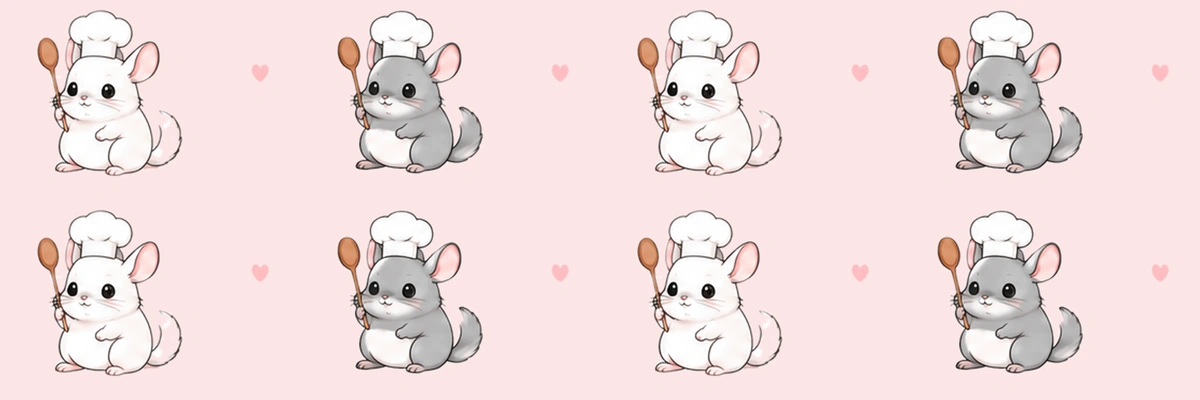
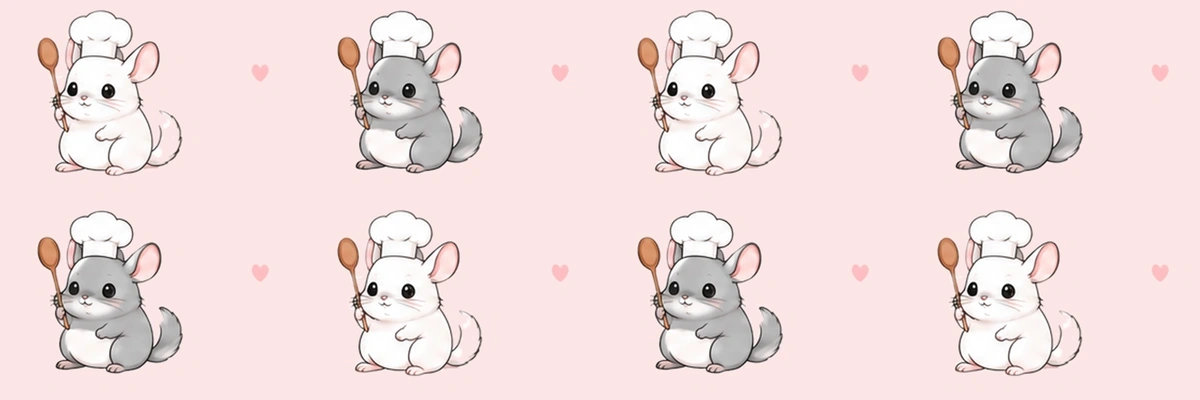
Inverte i colori della seconda riga di cincillà

diff --git a/index.html b/index.html
@@ -7,7 +7,7 @@
 <style>
 :root{--bg:#fce6e7;--paper:#fffdfb;--ink:#514b49;--muted:#8b817c;--line:#ead8d9;--accent:#c98f91;--accent-dark:#a76f72;--tag:#f4e6e3;--shadow:0 8px 28px rgba(92,75,68,.09)}
 *{box-sizing:border-box}html,body{margin:0;min-height:100%}body{color:var(--ink);font-family:Georgia,"Times New Roman",serif;background:var(--bg);overflow-x:hidden}
-.chinchilla-wall{position:fixed;inset:0;z-index:-1;pointer-events:none;background-color:var(--bg);background-repeat:repeat;background-position:center top;background-size:1200px 400px;background-image:url("sfondo_cincilla.webp?v=6")}
+.chinchilla-wall{position:fixed;inset:0;z-index:-1;pointer-events:none;background-color:var(--bg);background-repeat:repeat;background-position:center top;background-size:1200px 400px;background-image:url("sfondo_cincilla.webp?v=7")}
 header{max-width:1200px;margin:0 auto;padding:30px 28px 16px}.brand-row{display:flex;align-items:center;justify-content:space-between;gap:20px}.logo{margin:0;font-family:"Courier New",monospace;font-size:clamp(30px,4vw,52px);letter-spacing:5px;font-weight:700;color:#8d625c}.subtitle{color:var(--muted);margin:4px 0 0;font-size:15px}.add-btn{border:0;background:var(--accent);color:white;padding:12px 18px;border-radius:12px;cursor:pointer;font:600 15px Georgia,serif;box-shadow:var(--shadow)}.add-btn:hover{background:var(--accent-dark)}
 .filters{display:flex;flex-wrap:wrap;gap:8px;margin-top:20px}.filter{border:1px solid #dfcec8;background:rgba(255,253,251,.88);color:var(--ink);padding:8px 14px;border-radius:9px;cursor:pointer;font:14px Georgia,serif}.filter.active,.filter:hover{background:var(--tag);border-color:#cba9a1}
 main{max-width:1200px;margin:0 auto;padding:10px 28px 60px}.toolbar{display:flex;justify-content:space-between;align-items:center;gap:15px;margin:15px 0 20px}.count{font-size:14px;color:var(--muted)}.search{width:min(300px,100%);padding:10px 13px;border:1px solid var(--line);border-radius:10px;background:rgba(255,253,251,.94);outline:none}.grid{display:grid;grid-template-columns:repeat(auto-fill,minmax(250px,1fr));gap:18px}.card{background:rgba(255,253,251,.96);border:1px solid var(--line);border-radius:16px;padding:20px;box-shadow:var(--shadow);min-height:190px;display:flex;flex-direction:column}.card h3{margin:0 0 8px;font-size:22px}.card .category{display:inline-block;align-self:flex-start;background:var(--tag);color:#86635d;padding:5px 9px;border-radius:7px;font-size:12px;margin-bottom:12px}.card p{white-space:pre-line;line-height:1.5;margin:0;color:#665e5a}.card-actions{margin-top:auto;padding-top:16px;display:flex;gap:8px}.small-btn{border:1px solid var(--line);background:#fff;color:var(--ink);border-radius:8px;padding:7px 10px;cursor:pointer}.small-btn.delete{color:#9b5f5a}.empty{grid-column:1/-1;text-align:center;padding:55px 20px;background:rgba(255,253,251,.88);border:1px dashed #d8c8c1;border-radius:16px;color:var(--muted)}
